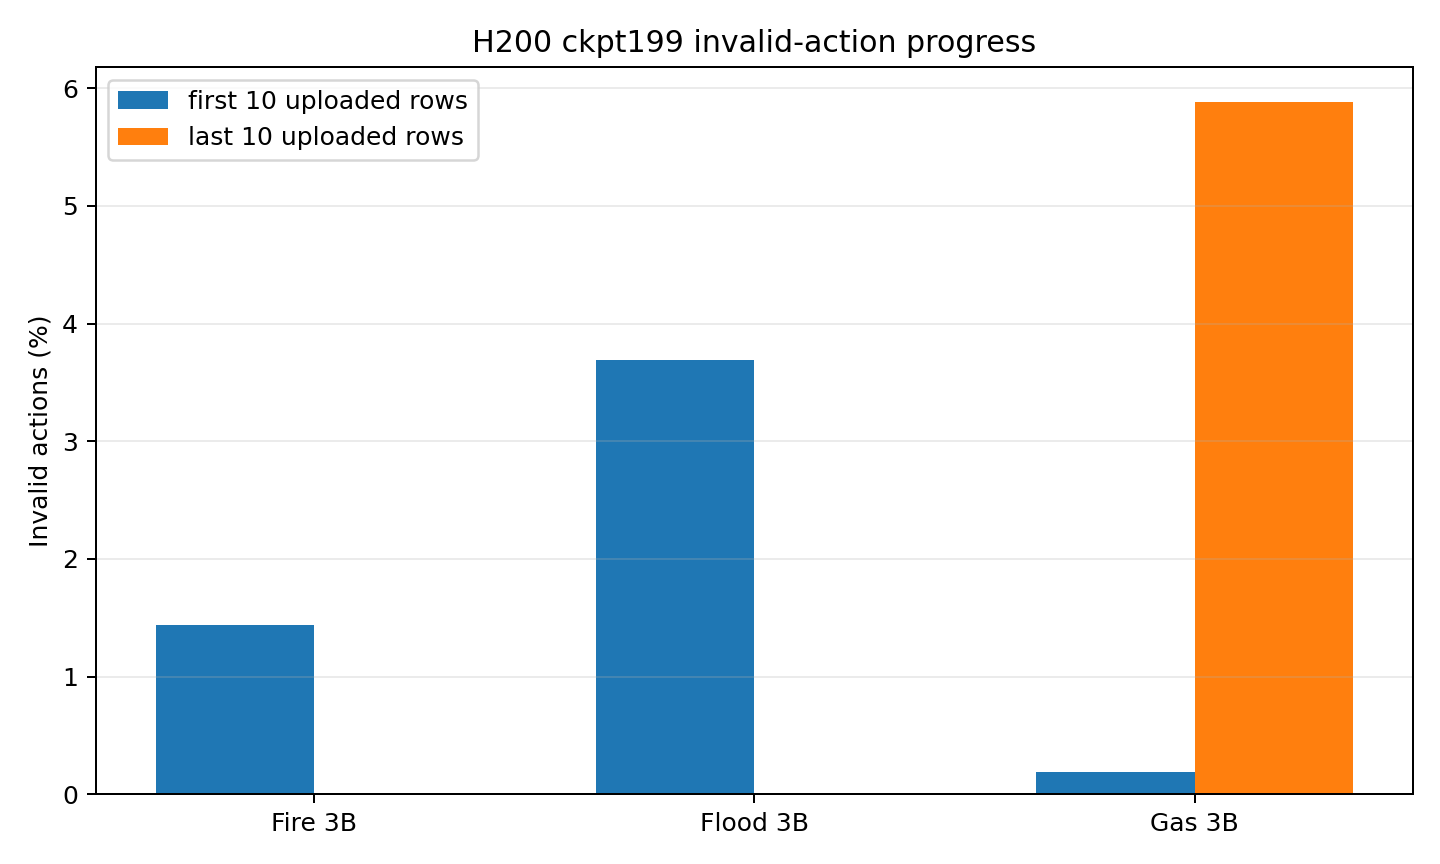
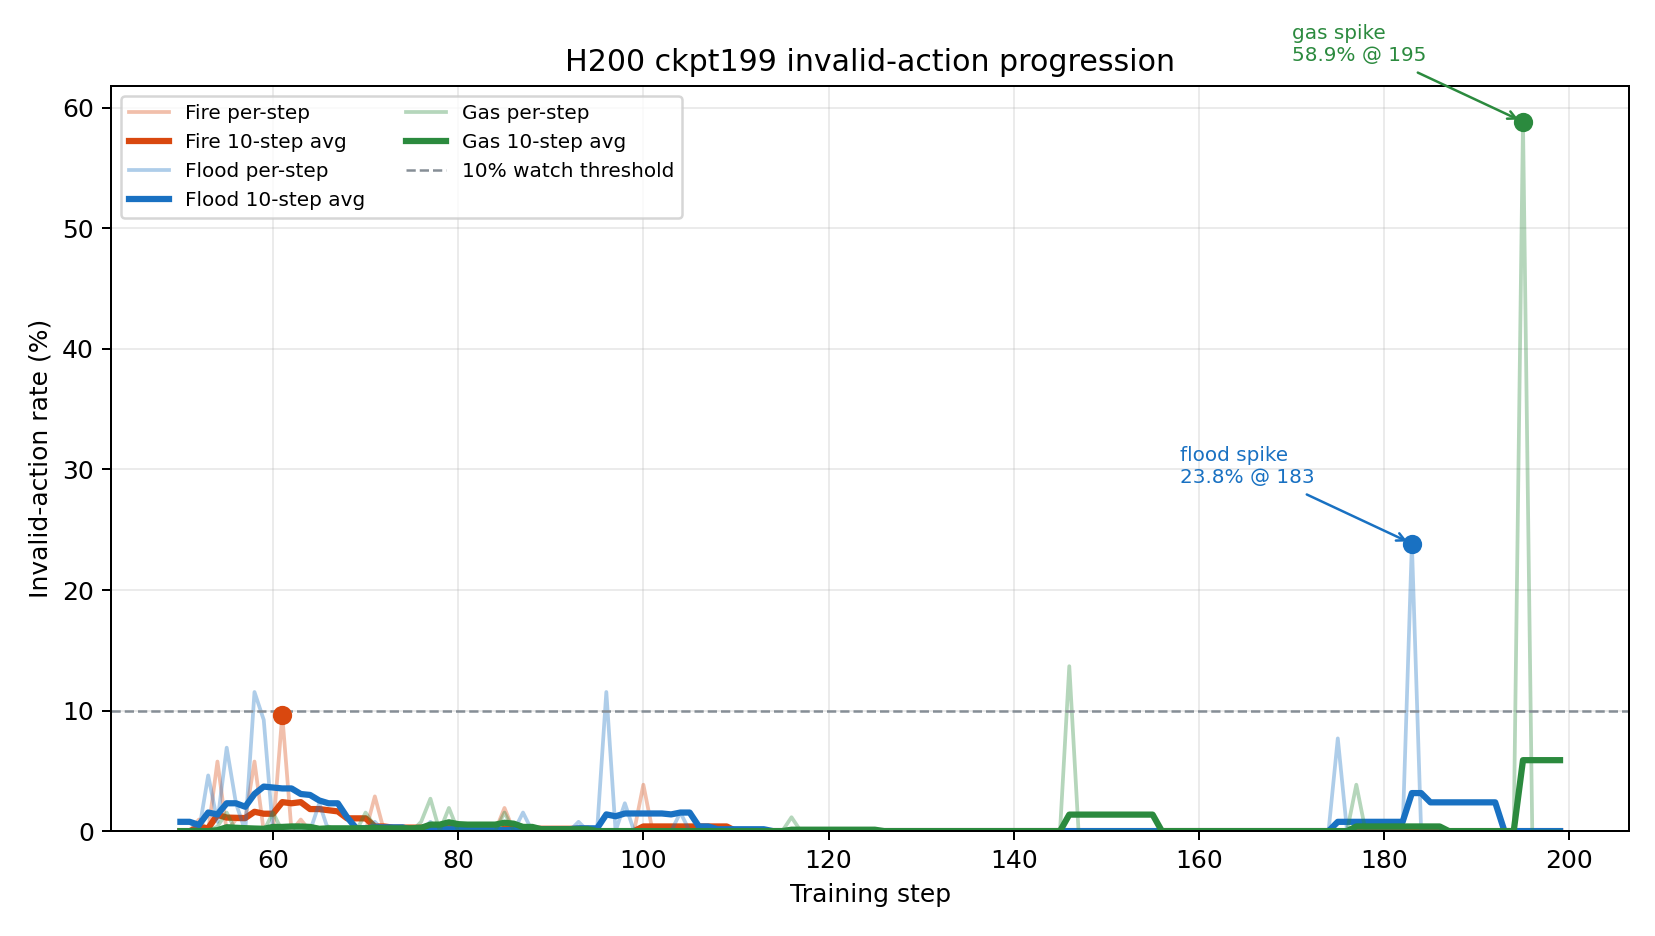
Make H200 invalid-action plot spike-aware

Changed region(s): [[0.0312, 0.0312, 1.0, 0.9688], [0.0, 0.3438, 0.0625, 0.6562]]

diff --git a/README.md b/README.md
@@ -273,11 +273,11 @@ The cleanest completed specialist evidence is the `50`-step fire/flood/gas floor
 
 The continuation path resumes from those `ckpt_49` checkpoints and saves/upload-checkpoints every `10` steps. The snapshot below comes from uploaded H200 continuation metrics, so it is a reward-signal trend, not a final held-out scorecard.
 
-| Specialist | Uploaded continuation steps | First-10 invalid rate | Last-10 invalid rate | First-10 raw reward | Last-10 raw reward | Reading |
-|---|---:|---:|---:|---:|---:|---|
-| Fire `3B` | `50 -> 199` | `1.44%` | `0.00%` | `10.56` | `12.06` | reward up, invalid actions eliminated in the latest window |
-| Flood `3B` | `50 -> 199` | `3.69%` | `0.00%` | `7.60` | `8.83` | reward up, invalid actions eliminated in the latest window |
-| Gas `3B` | `50 -> 199` | `0.19%` | `5.89%` | `29.40` | `31.89` | reward up, with latest-window invalid actions needing continued monitoring |
+| Specialist | Uploaded continuation steps | First-10 invalid rate | Last-10 invalid rate | Max invalid spike | First-10 raw reward | Last-10 raw reward | Reading |
+|---|---:|---:|---:|---:|---:|---:|---|
+| Fire `3B` | `50 -> 199` | `1.44%` | `0.00%` | `9.62% @ 61` | `10.56` | `12.06` | reward up, no invalid spike above the `10%` watch line |
+| Flood `3B` | `50 -> 199` | `3.69%` | `0.00%` | `23.85% @ 183` | `7.60` | `8.83` | reward up, latest window clean, but three isolated invalid spikes need trace review |
+| Gas `3B` | `50 -> 199` | `0.19%` | `5.89%` | `58.85% @ 195` | `29.40` | `31.89` | reward up, but the latest-window invalid rate is caused by a severe step-195 spike, not smooth improvement |
 
 Training reward is intentionally diagnostic and contrastive for GRPO. Public evaluation is separate: it reports bounded metrics such as valid-action score, invalid-action rate, saved/lost outcomes, and baseline-vs-trained deltas.
 

diff --git a/Blog.MD b/Blog.MD
@@ -182,11 +182,11 @@ The `3B` floor-specialist canary suite across fire, flood, and gas response lane
 
 The continuation run resumes from those `ckpt_49` specialists and uploads checkpoints every `10` steps. This is not presented as a final held-out scorecard; it is the live reward-signal snapshot showing that the next phase is moving in the right direction.
 
-| Specialist | Uploaded continuation steps | First-10 invalid rate | Last-10 invalid rate | First-10 raw reward | Last-10 raw reward | Reading |
-|---|---:|---:|---:|---:|---:|---|
-| Fire `3B` | `50 -> 199` | `1.44%` | `0.00%` | `10.56` | `12.06` | reward up, invalid actions eliminated in the latest window |
-| Flood `3B` | `50 -> 199` | `3.69%` | `0.00%` | `7.60` | `8.83` | reward up, invalid actions eliminated in the latest window |
-| Gas `3B` | `50 -> 199` | `0.19%` | `5.89%` | `29.40` | `31.89` | reward up, with latest-window invalid actions needing continued monitoring |
+| Specialist | Uploaded continuation steps | First-10 invalid rate | Last-10 invalid rate | Max invalid spike | First-10 raw reward | Last-10 raw reward | Reading |
+|---|---:|---:|---:|---:|---:|---:|---|
+| Fire `3B` | `50 -> 199` | `1.44%` | `0.00%` | `9.62% @ 61` | `10.56` | `12.06` | reward up, no invalid spike above the `10%` watch line |
+| Flood `3B` | `50 -> 199` | `3.69%` | `0.00%` | `23.85% @ 183` | `7.60` | `8.83` | reward up, latest window clean, but three isolated invalid spikes need trace review |
+| Gas `3B` | `50 -> 199` | `0.19%` | `5.89%` | `58.85% @ 195` | `29.40` | `31.89` | reward up, but the latest-window invalid rate is caused by a severe step-195 spike, not smooth improvement |
 
 ![3B specialist valid-action score comparison](demo/results/plots/3b_specialist_valid_action_score_comparison.png)
 
